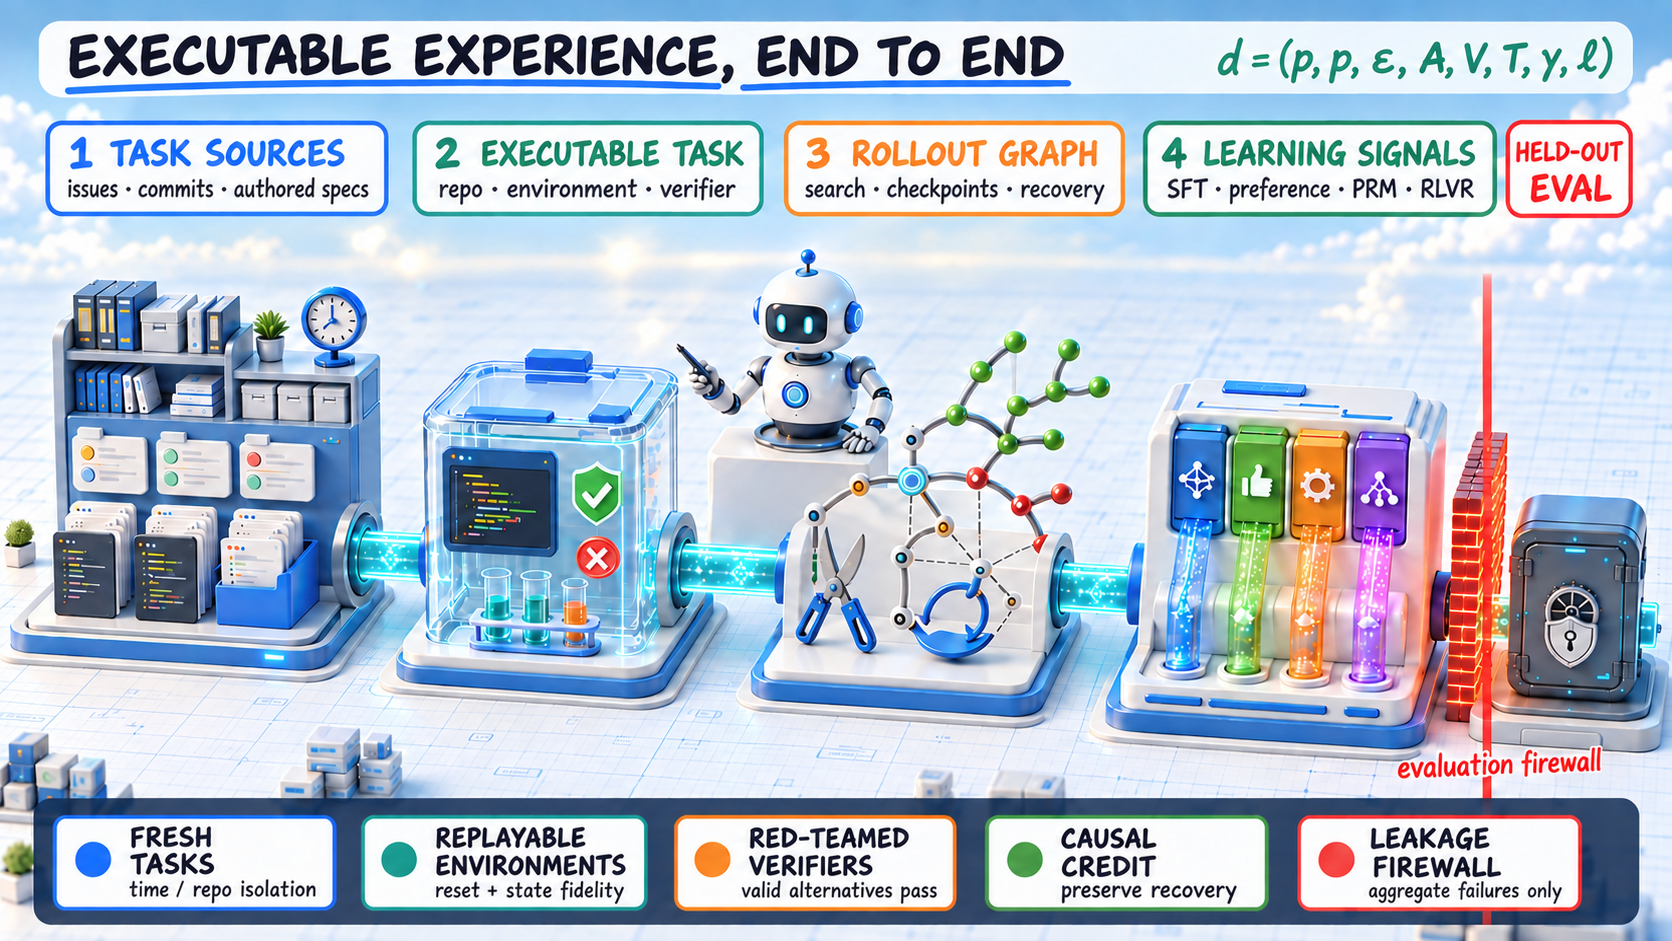
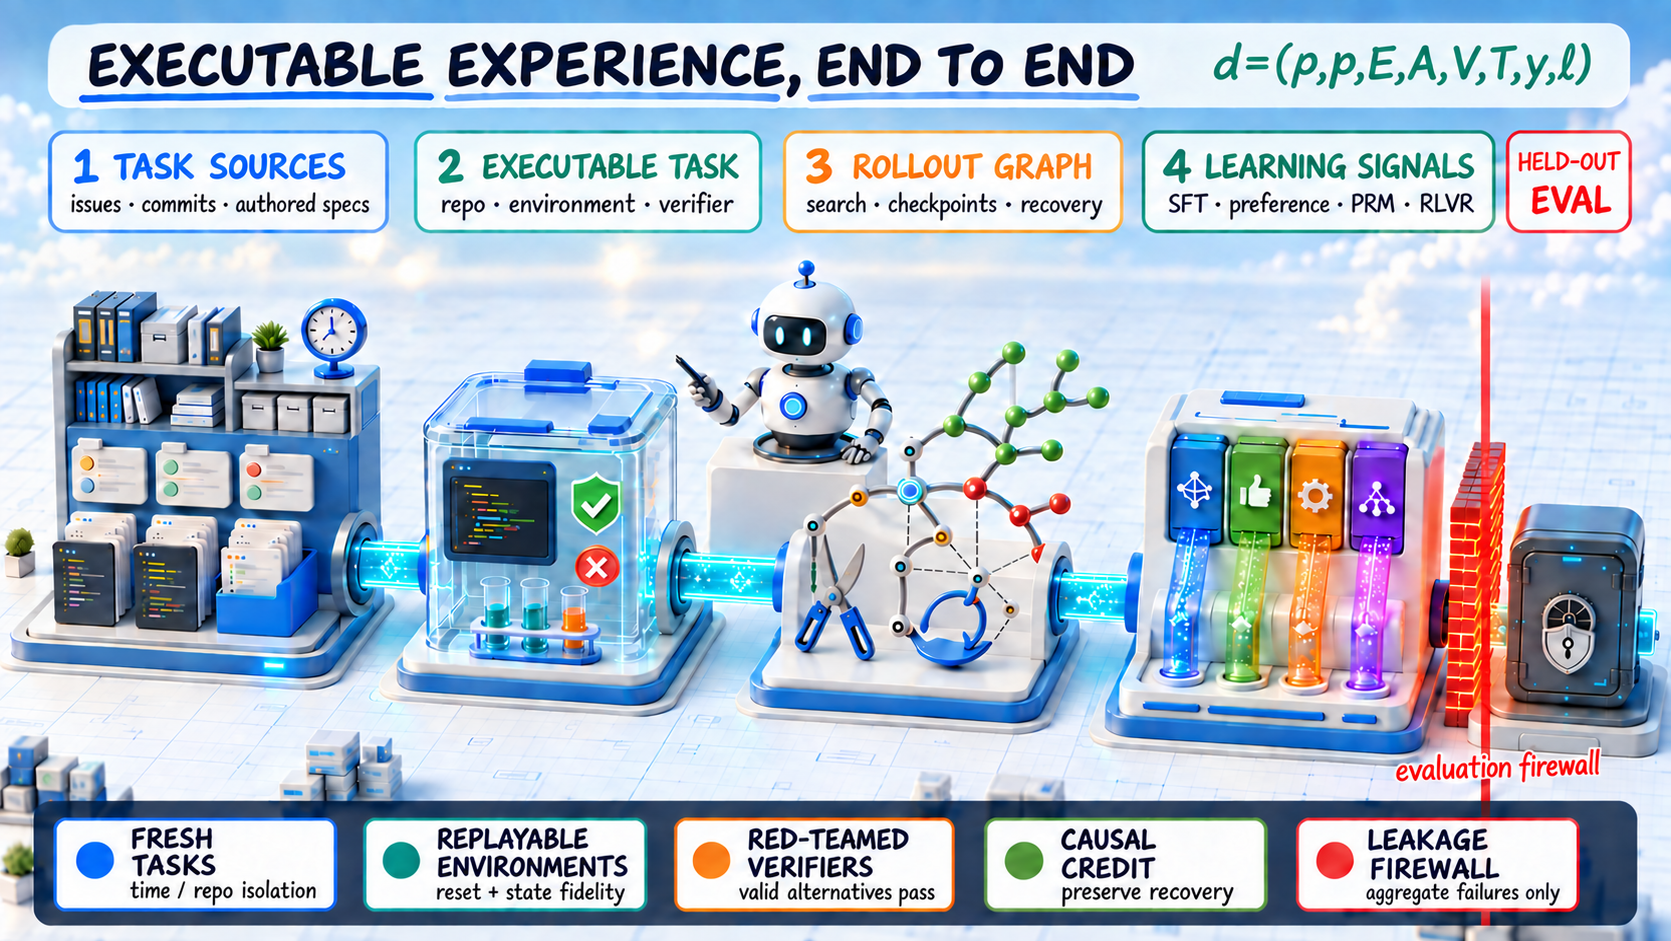
Replace hero and social preview with latest illustration

diff --git a/coding-agent-data/index.html b/coding-agent-data/index.html
@@ -10,7 +10,7 @@
   <meta property="og:title" content="From Issues to Learning Signals">
   <meta property="og:description" content="A Survey of Data for Coding Agents">
   <meta property="og:image" content="https://linjh1118.github.io/coding-agent-data/assets/og.png">
-  <meta property="og:image:width" content="1672">
+  <meta property="og:image:width" content="1671">
   <meta property="og:image:height" content="941">
   <meta property="og:image:alt" content="From Issues to Learning Signals: A Survey of Data for Coding Agents">
   <meta name="twitter:card" content="summary_large_image">
@@ -75,7 +75,7 @@
         </div>
         <figure class="hero-card reveal">
           <button class="figure-open" type="button" data-lightbox="assets/hero.png" aria-label="Open cover illustration">
-            <img src="assets/hero.png" width="1672" height="941" fetchpriority="high" decoding="async" alt="An illustrated coding-agent data factory linking task sources, executable environments, rollout graphs, learning signals, and held-out evaluation.">
+            <img src="assets/hero.png" width="1671" height="941" fetchpriority="high" decoding="async" alt="An illustrated coding-agent data factory linking task sources, executable environments, rollout graphs, learning signals, and held-out evaluation.">
           </button>
           <figcaption>
             <span class="caption-label">Survey overview</span>
